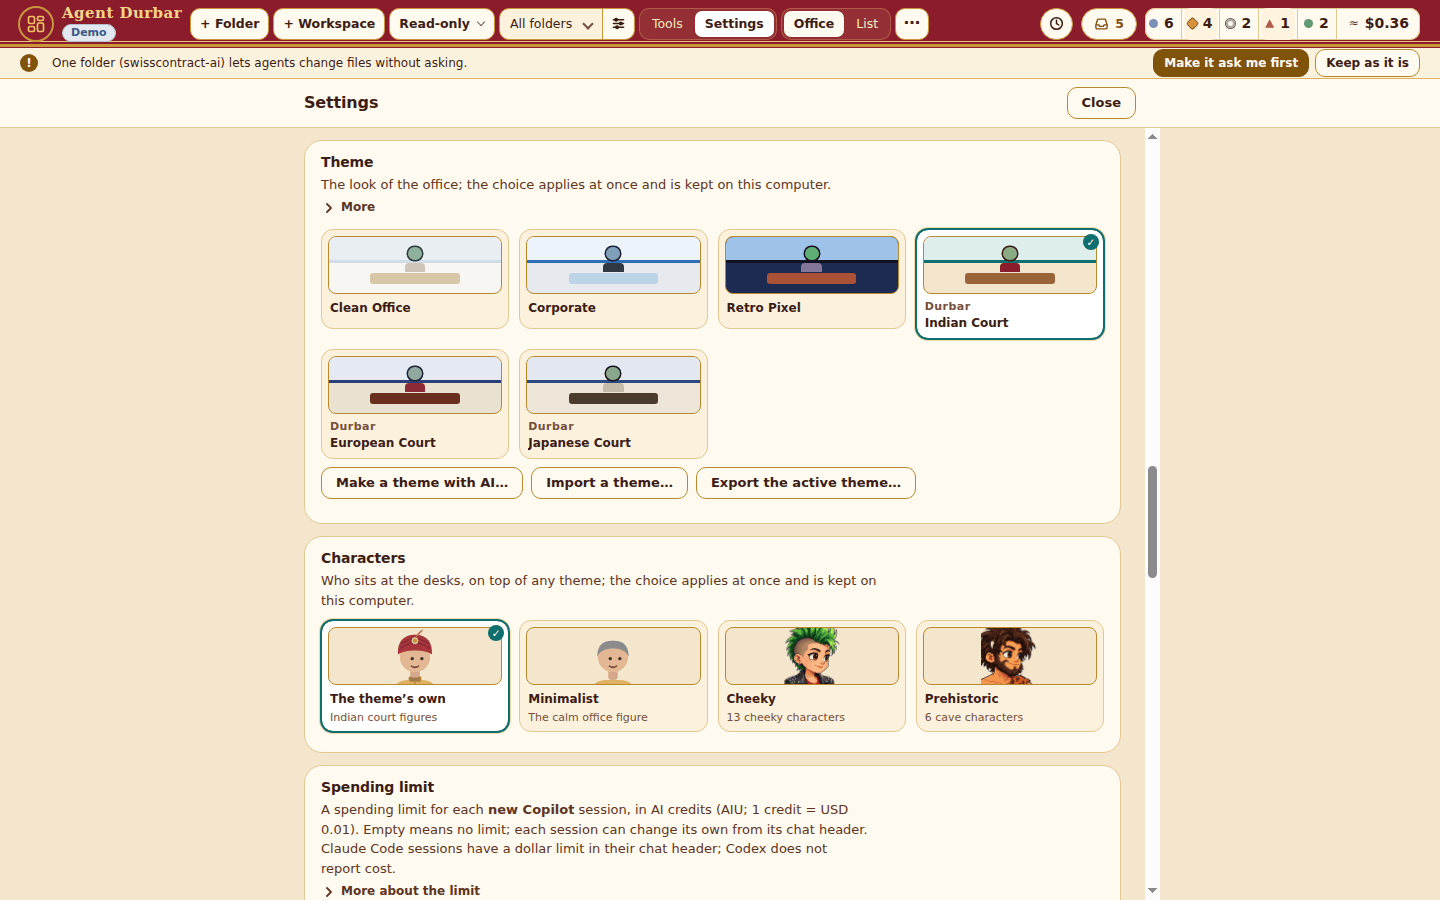
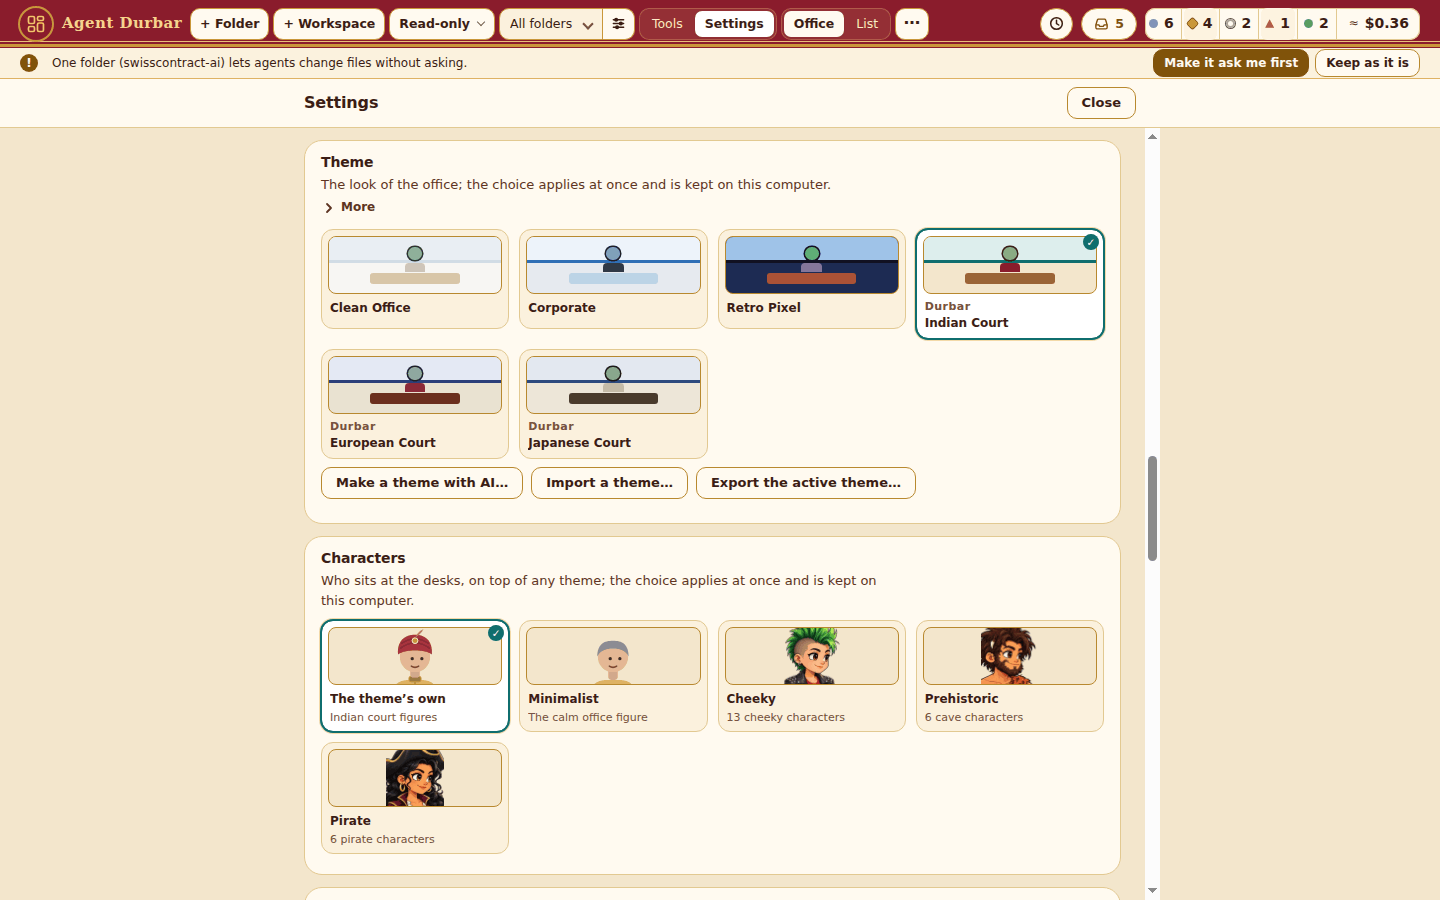
077 FR-074: README and themes docs name the Pirate Crew; Settings screenshots retaken

Changed region(s): [[0.1875, 0.8089, 0.7812, 0.9956], [0.0312, 0.0, 0.125, 0.0622], [0.7812, 0.6222, 0.8125, 0.6533]]

diff --git a/docs/themes.md b/docs/themes.md
@@ -9,7 +9,7 @@ Settings has two choices, both applied live without a restart: **Theme** (colour
 - **Corporate:** a navy bar, white rooms with an accent edge, square corners.
 - **Retro Pixel:** a dark arcade page with pixel characters at CRT desks.
 - **Durbar · Indian / European / Japanese:** three royal courts, each with its own frames, colours and court place names.
-- **Characters** (spec 077): **The theme's own** (the default: the calm office figure in Clean Office, suits in Corporate, pixel people in Retro Pixel, court figures in the three courts), **Minimalist** (the calm office figure on any theme), **Cheeky** (experimental): a playful desk and 13 young, cheeky, office-safe characters, or **Prehistoric**: the same desk with 6 friendly cave people. Each session gets one at random, among those the office uses least, kept per session; a picture shows it working, waiting or resting. If a picture is missing, the plain figure is drawn. Each choice has a small preview in Settings. Cheeky Crew used to be a theme: if you had it, Durbar switches you once to Clean Office with Characters = Cheeky (the characters stay; the warm background and desk colours were the old theme's). Checked on the simulator only.
+- **Characters** (spec 077): **The theme's own** (the default: the calm office figure in Clean Office, suits in Corporate, pixel people in Retro Pixel, court figures in the three courts), **Minimalist** (the calm office figure on any theme), **Cheeky** (experimental): a playful desk and 13 young, cheeky, office-safe characters, **Prehistoric**: the same desk with 6 friendly cave people, or **Pirate**: the same desk with 6 pirates (a captain, an eyepatch sailor, a hook pirate, a cook, a privateer and a cabin boy). Each session gets one at random, among those the office uses least, kept per session; a picture shows it working, waiting or resting. If a picture is missing, the plain figure is drawn. Each choice has a small preview in Settings. Cheeky Crew used to be a theme: if you had it, Durbar switches you once to Clean Office with Characters = Cheeky (the characters stay; the warm background and desk colours were the old theme's). Checked on the simulator only.
 - **Make a theme with AI:** describe a look ("a pirate ship at night"), or pick one of the ideas, and Claude Code, Codex or Copilot designs a light or dark theme: colours, a style, place names (short enough for a lobby tile) and art for the people, furniture, room walls, windows and floors, and the lobby. Durbar keeps only safe values, cleans the art like an imported pack, and checks that text stays readable (also on each room's colour) and that the brand colour shows on lobby icons and buttons; the AI gets up to 3 passes to fix what fails. Try it on the whole app before you save it. One theme costs about a cent on Claude (haiku); Copilot spends AI credits from your plan (shown with the result): about 0.25 AI credits per pass on a free plan, checked on 2026-10-20.
 - **Your own themes:** a folder with a `manifest.json` (colours, fonts, corner radii, shadows, the people's clothes and hair colours, a UI style and a scene kit from fixed lists, small SVG art including the desk's cup and laptop, place names), imported and exported in Settings. A theme is data only: no scripts and no CSS. Fonts are installed system fonts from an allow-list (a theme never downloads a font or loads a font file), sizes and spacing stay the app's so the office always fits, SVG art is rebuilt from allowed shapes, a value that is merely unusable falls back to the default and a text colour that would be hard to read is adjusted just enough (the theme stays light or dark), with a note in Settings, and a pack with markup or CSS in a value is refused with a message (spec 070).
 

diff --git a/README.md b/README.md
@@ -85,7 +85,7 @@ All `npm run` commands, the repository layout and how we work (spec-driven with 
 
 Agent Durbar is by **Three Feathers**. Key contributors: [vikramgorla](https://github.com/vikramgorla), [fjcabello](https://github.com/fjcabello) and [rubenlupi](https://github.com/rubenlupi) (GitHub handles are used as the names). The names live in [`src/shared/about.ts`](src/shared/about.ts) and are shown in the OS About panel and in Settings > About.
 
-The Cheeky and Prehistoric Crew pictures (`src/renderer/crew/art/`) were made by Paco with ChatGPT image generation, and Paco did the final pass; [`ASSETS.md`](src/renderer/crew/art/ASSETS.md) gives the tool and date of each (spec 077). The app id is `io.github.three-feathers.agentdurbar` since 2026-10-16; a build from before then is a separate app to the OS.
+The Cheeky, Prehistoric and Pirate Crew pictures (`src/renderer/crew/art/`) were made by Paco with ChatGPT image generation, and Paco did the final pass; [`ASSETS.md`](src/renderer/crew/art/ASSETS.md) gives the tool and date of each (spec 077). The app id is `io.github.three-feathers.agentdurbar` since 2026-10-16; a build from before then is a separate app to the OS.
 
 The Real office pictures (`src/renderer/realoffice/art/`) were made with Codex image generation on Vikram's plan and approved by Vikram, MIT like the code; [`ASSETS.md`](src/renderer/realoffice/art/ASSETS.md) gives each sheet's tool, date and prompt (spec 097).
 
